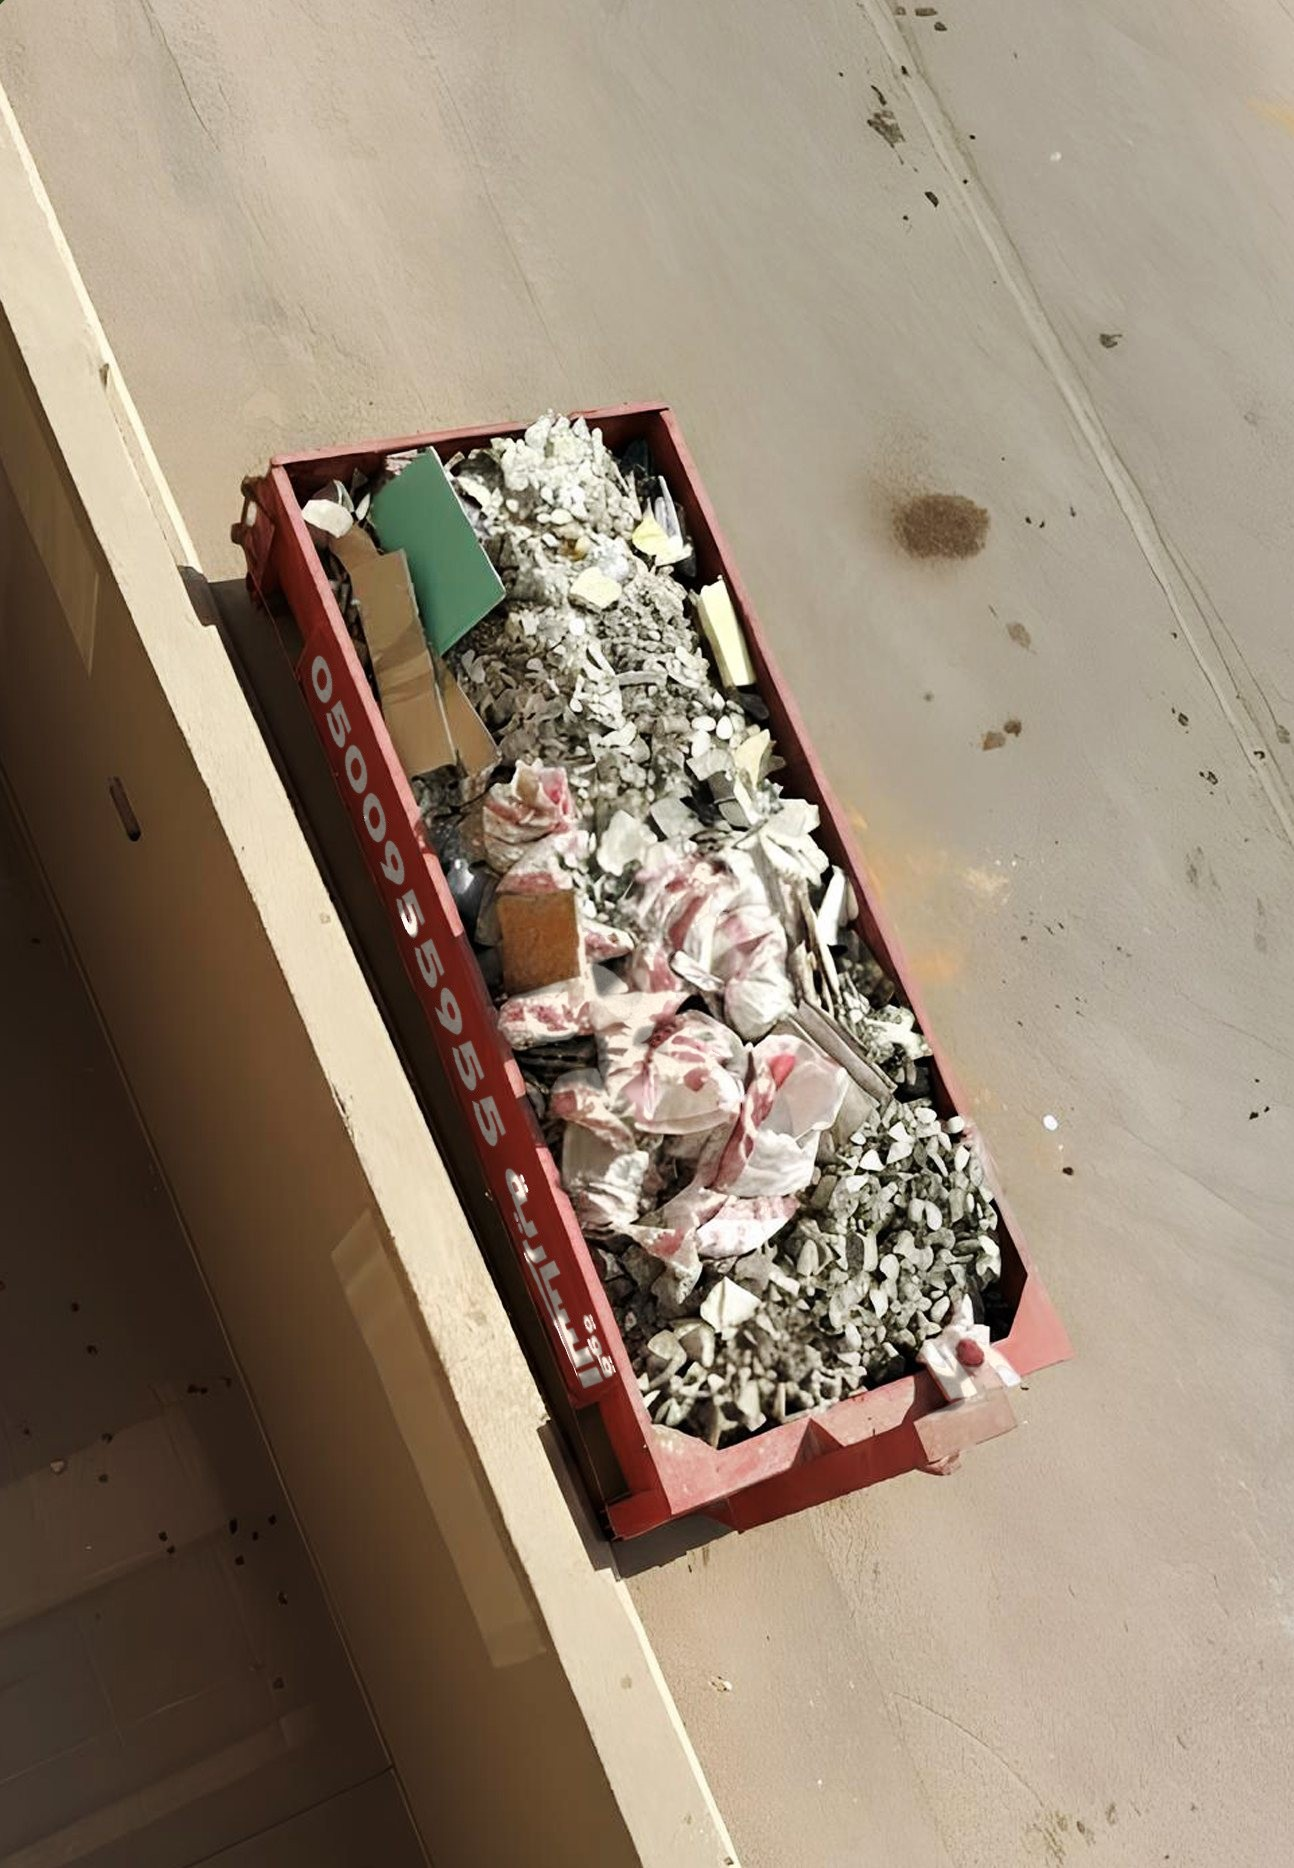
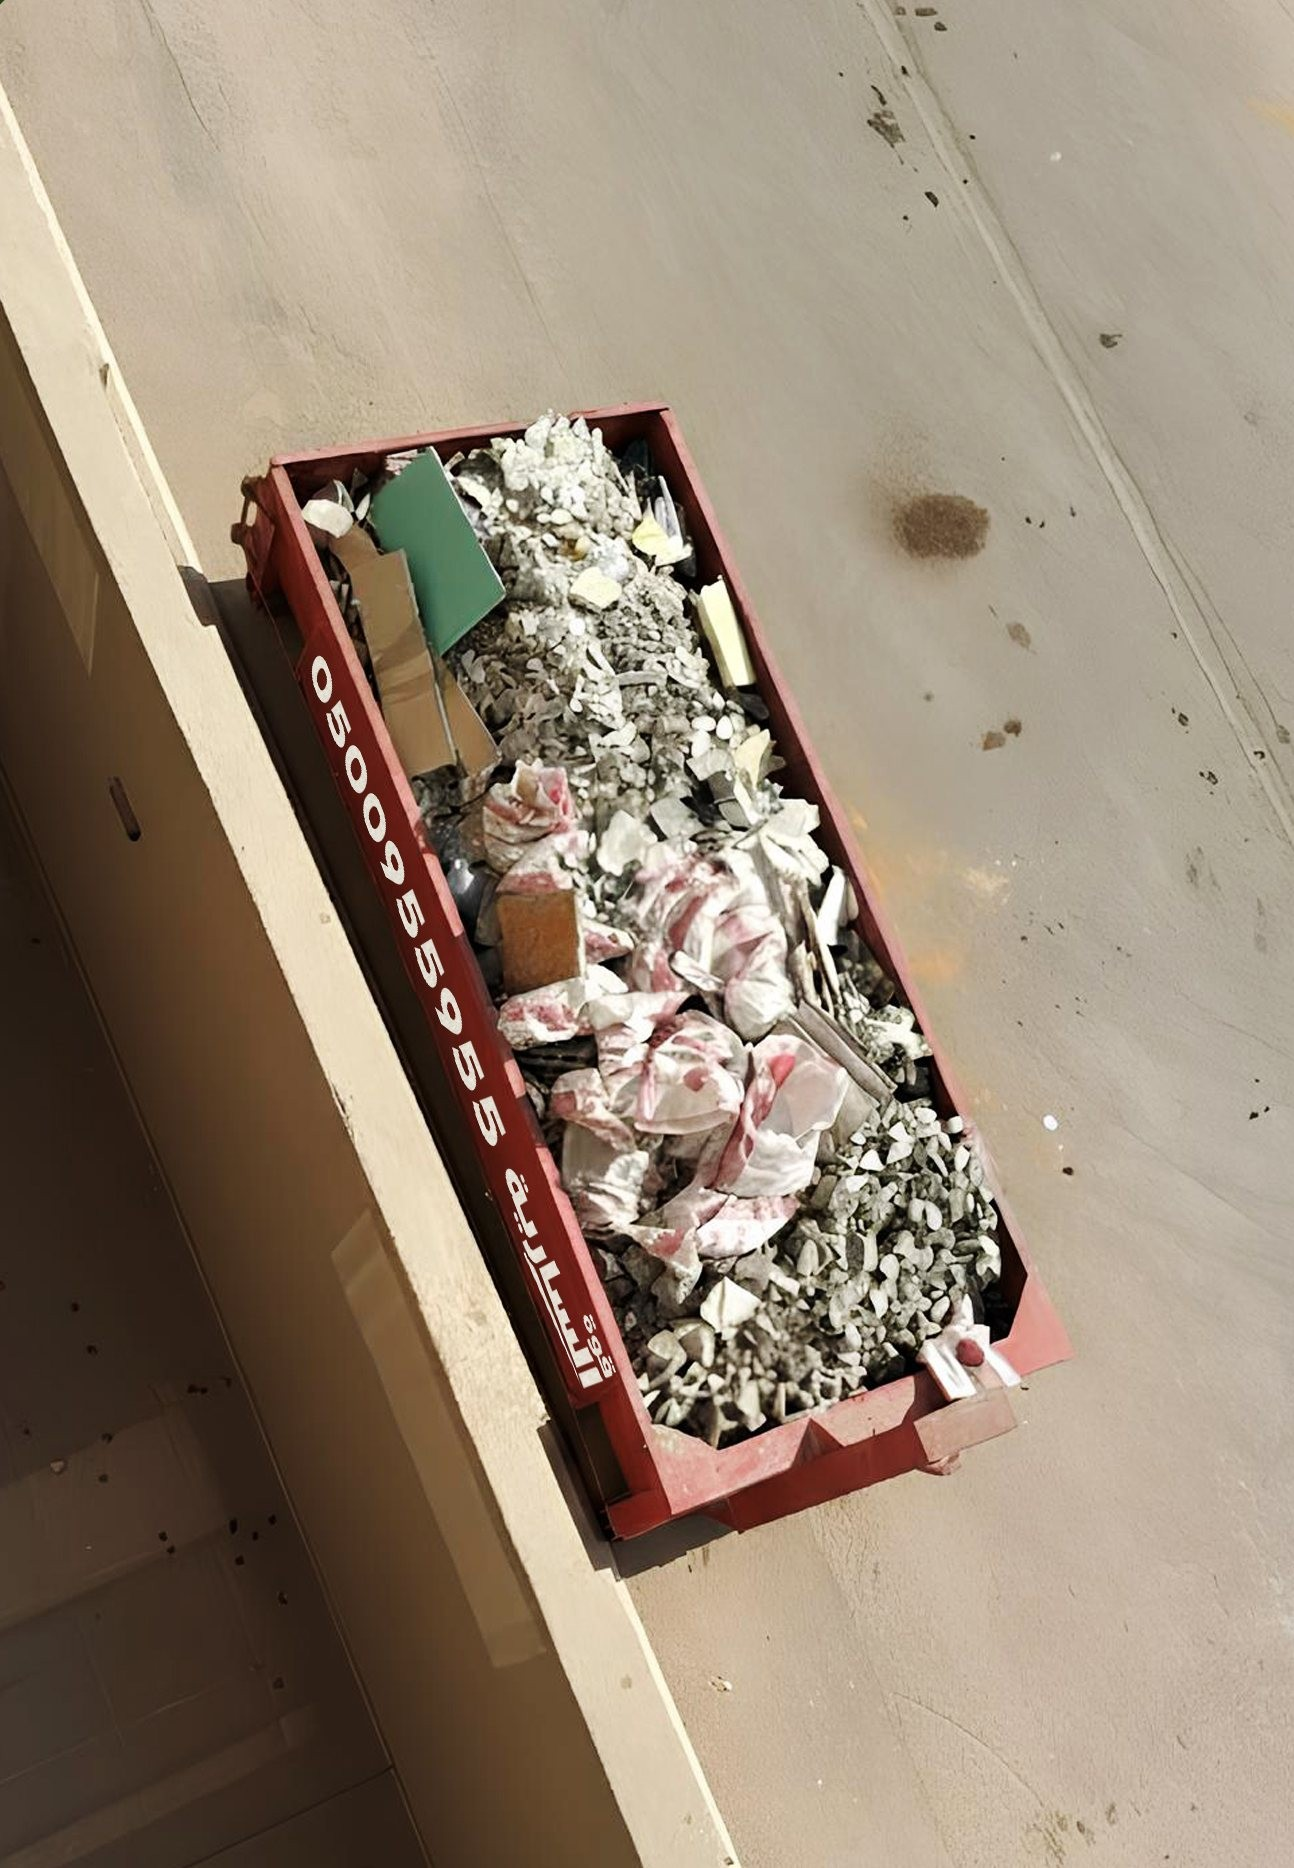
إصلاح الكتابة في صور الحاويات وترك الركام بدون تعديل

diff --git a/index.html b/index.html
@@ -7,7 +7,7 @@
 <meta name="description" content="مؤسسة قوة السارية للحاويات: تأجير حاويات مخلفات البناء والهدم والترميم بجميع المقاسات، توصيل ورفع وتبديل حسب الطلب.">
 <meta property="og:title" content="قوة السارية للحاويات">
 <meta property="og:description" content="حاويات مخلفات البناء والهدم والترميم. نوصّلها لموقعك ونرفعها إذا امتلت.">
-<meta property="og:image" content="img/work-2.jpg?v=3">
+<meta property="og:image" content="img/work-2.jpg?v=4">
 <meta name="theme-color" content="#24420e">
 <link rel="icon" href="img/icon.png">
 <link rel="preconnect" href="https://fonts.googleapis.com">
@@ -272,7 +272,7 @@ footer a:hover{color:#fff}
         </div>
       </div>
       <div class="hero-photo reveal">
-        <div class="frame"><img src="img/work-2.jpg?v=3" alt="حاويات قوة السارية الحمراء" fetchpriority="high"></div>
+        <div class="frame"><img src="img/work-2.jpg?v=4" alt="حاويات قوة السارية الحمراء" fetchpriority="high"></div>
         <div class="ticket t1"><span class="dot"><i data-lucide="check-check" class="icon"></i></span><div><b>حاوية ٥٦٢ وصلت</b>عند الموقع وجاهزة للاستخدام</div></div>
       </div>
     </div>
@@ -309,19 +309,19 @@ footer a:hover{color:#fff}
     </div>
     <div class="sizes">
       <article class="size reveal">
-        <div class="ph"><img src="img/work-3.jpg?v=3" alt="حاوية صغيرة" loading="lazy"><span class="tag">صغيرة</span></div>
+        <div class="ph"><img src="img/work-3.jpg?v=4" alt="حاوية صغيرة" loading="lazy"><span class="tag">صغيرة</span></div>
         <div class="bd"><h3>للترميم الخفيف</h3>
           <ul><li><i data-lucide="check" class="icon"></i>ترميم مطبخ أو حمام</li><li><i data-lucide="check" class="icon"></i>تنظيف سطح أو حوش</li><li><i data-lucide="check" class="icon"></i>تناسب الشوارع الضيقة</li></ul>
           <a class="go" href="#order" data-size="صغيرة">اطلبها<i data-lucide="arrow-left" class="icon"></i></a></div>
       </article>
       <article class="size reveal">
-        <div class="ph"><img src="img/work-9.jpg?v=3" alt="حاوية وسط" loading="lazy"><span class="tag">وسط</span></div>
+        <div class="ph"><img src="img/work-9.jpg?v=4" alt="حاوية وسط" loading="lazy"><span class="tag">وسط</span></div>
         <div class="bd"><h3>للتشطيب والفلل</h3>
           <ul><li><i data-lucide="check" class="icon"></i>تشطيب فيلا أو دور</li><li><i data-lucide="check" class="icon"></i>ترميم شامل</li><li><i data-lucide="check" class="icon"></i>المحلات والمعارض</li></ul>
           <a class="go" href="#order" data-size="وسط">اطلبها<i data-lucide="arrow-left" class="icon"></i></a></div>
       </article>
       <article class="size reveal">
-        <div class="ph"><img src="img/work-1.jpg?v=3" alt="حاوية كبيرة" loading="lazy"><span class="tag">كبيرة</span></div>
+        <div class="ph"><img src="img/work-1.jpg?v=4" alt="حاوية كبيرة" loading="lazy"><span class="tag">كبيرة</span></div>
         <div class="bd"><h3>للبناء والهدم</h3>
           <ul><li><i data-lucide="check" class="icon"></i>مشاريع البناء والعظم</li><li><i data-lucide="check" class="icon"></i>الهدم والأنقاض</li><li><i data-lucide="check" class="icon"></i>المواقع الإنشائية الكبيرة</li></ul>
           <a class="go" href="#order" data-size="كبيرة">اطلبها<i data-lucide="arrow-left" class="icon"></i></a></div>
@@ -360,15 +360,15 @@ footer a:hover{color:#fff}
       <a class="btn btn-red" href="#order">اطلب حاويتك</a>
     </div>
     <div class="gallery" id="gallery">
-      <button><img src="img/work-2.jpg?v=3" alt="حاوية ٥٦٤ أمام فيلا" loading="lazy"><span class="cap">حاوية ٥٦٤ · قدام فيلا</span></button>
-      <button><img src="img/work-6.jpg?v=3" alt="شاحنات قوة السارية" loading="lazy"><span class="cap">أسطول الشاحنات</span></button>
-      <button><img src="img/work-1.jpg?v=3" alt="حاوية ٥٥٣ في موقع بناء" loading="lazy"><span class="cap">حاوية ٥٥٣ · موقع بناء</span></button>
-      <button><img src="img/work-5.jpg?v=3" alt="حاوية مليانة من فوق" loading="lazy"><span class="cap">حاوية مليانة جاهزة للرفع</span></button>
-      <button><img src="img/work-10.jpg?v=3" alt="شاحنة تنقل حاوية ٥١٤" loading="lazy"><span class="cap">حاوية ٥١٤ · في الطريق للتفريغ</span></button>
-      <button><img src="img/work-3.jpg?v=3" alt="حاوية ٥٤٨" loading="lazy"><span class="cap">حاوية ٥٤٨</span></button>
-      <button><img src="img/work-4.jpg?v=3" alt="حاوية في حي سكني" loading="lazy"><span class="cap">ترميم في حي سكني</span></button>
-      <button><img src="img/work-8.jpg?v=3" alt="حاوية ٥٦٢ أمام محل" loading="lazy"><span class="cap">حاوية ٥٦٢ · قدام محل</span></button>
-      <button><img src="img/work-9.jpg?v=3" alt="حاوية أمام فيلا" loading="lazy"><span class="cap">توصيل لباب البيت</span></button>
+      <button><img src="img/work-2.jpg?v=4" alt="حاوية ٥٦٤ أمام فيلا" loading="lazy"><span class="cap">حاوية ٥٦٤ · قدام فيلا</span></button>
+      <button><img src="img/work-6.jpg?v=4" alt="شاحنات قوة السارية" loading="lazy"><span class="cap">أسطول الشاحنات</span></button>
+      <button><img src="img/work-1.jpg?v=4" alt="حاوية ٥٥٣ في موقع بناء" loading="lazy"><span class="cap">حاوية ٥٥٣ · موقع بناء</span></button>
+      <button><img src="img/work-5.jpg?v=4" alt="حاوية مليانة من فوق" loading="lazy"><span class="cap">حاوية مليانة جاهزة للرفع</span></button>
+      <button><img src="img/work-10.jpg?v=4" alt="شاحنة تنقل حاوية ٥١٤" loading="lazy"><span class="cap">حاوية ٥١٤ · في الطريق للتفريغ</span></button>
+      <button><img src="img/work-3.jpg?v=4" alt="حاوية ٥٤٨" loading="lazy"><span class="cap">حاوية ٥٤٨</span></button>
+      <button><img src="img/work-4.jpg?v=4" alt="حاوية في حي سكني" loading="lazy"><span class="cap">ترميم في حي سكني</span></button>
+      <button><img src="img/work-8.jpg?v=4" alt="حاوية ٥٦٢ أمام محل" loading="lazy"><span class="cap">حاوية ٥٦٢ · قدام محل</span></button>
+      <button><img src="img/work-9.jpg?v=4" alt="حاوية أمام فيلا" loading="lazy"><span class="cap">توصيل لباب البيت</span></button>
     </div>
   </div>
 </section>
@@ -392,7 +392,7 @@ footer a:hover{color:#fff}
 <section>
   <div class="wrap why-grid">
     <div class="why-photo reveal">
-      <img src="img/work-6.jpg?v=3" alt="أسطول شاحنات قوة السارية" loading="lazy">
+      <img src="img/work-6.jpg?v=4" alt="أسطول شاحنات قوة السارية" loading="lazy">
       <div class="badge"><i data-lucide="shield-check" class="icon"></i><div><b>أسطول خاص فينا</b>شاحناتنا وحاوياتنا، ما نعتمد على أحد</div></div>
     </div>
     <div class="reveal">
